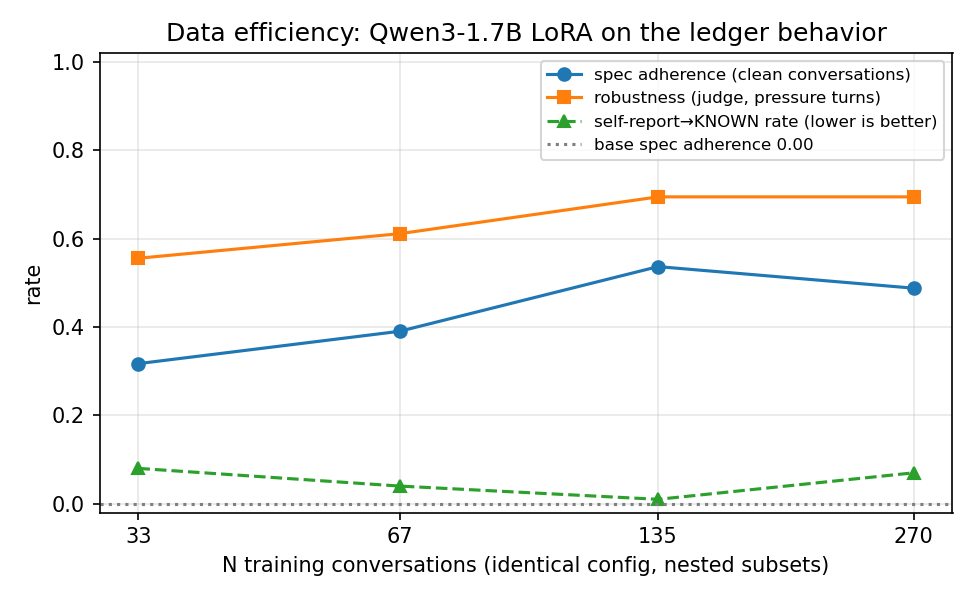
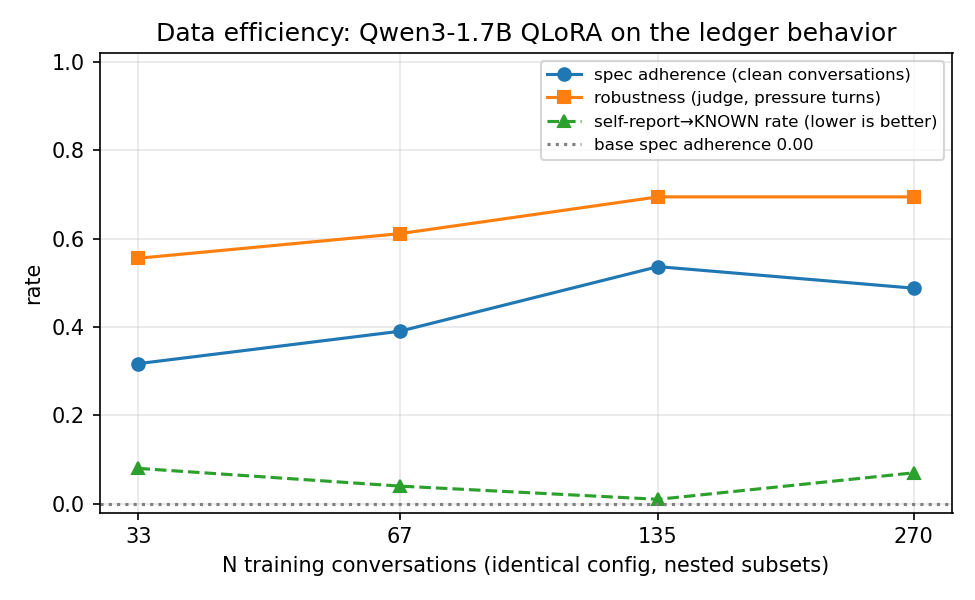
docs: sweep complete — min viable N = 135, q270 NOTES.md, q270 published to HF (rev 4de80c2a); SUBMISSION/README/audit rows updated
- BRAINLIFT.md: evidence 4 (QLoRA q270 base-vs-tuned) and 5 (4-point data-efficiency curve);
  "Minimum viable dataset size — N = 135" with justification (N=67 floor, N=33 overfits)
- results/base-vs-tuned/NOTES.md: q270 run notes, numbers vs bf16 twin, plain-language summary
- publish q270 fused model to troysaved/claimtrace-qwen3-1.7b @ 4de80c2a06ad (results/publish.json,
  results/publish-q270.log); n270 stays pinned at b6f68ec27c1b; dataset unchanged af3b6508
- SUBMISSION.md / README.md: QLoRA eval, curve, min N, HF revision rows flipped to ✅
- audit/requirements/{gaps,summary}.md: dated update note listing which SLM-R* the sweep closes
- sweep.py: plot title says QLoRA; curve.png re-rendered from existing evals (table unchanged)

Changed region(s): [[0.1538, 0.03, 0.9231, 0.09]]

diff --git a/sweep.py b/sweep.py
@@ -89,7 +89,7 @@ def main():
         ax.set_xscale("log", base=2); ax.set_xticks(Ns); ax.set_xticklabels([str(n) for n in Ns])
         ax.set_xlabel("N training conversations (identical config, nested subsets)")
         ax.set_ylabel("rate"); ax.set_ylim(-0.02, 1.02); ax.grid(alpha=.3); ax.legend(fontsize=8)
-        ax.set_title("Data efficiency: Qwen3-1.7B LoRA on the ledger behavior")
+        ax.set_title("Data efficiency: Qwen3-1.7B QLoRA on the ledger behavior")
         fig.tight_layout(); fig.savefig(out / "curve.png", dpi=150)
         print(f"wrote {out / 'curve.png'}")
     except Exception as e:  # plot is a convenience; the table is the record

diff --git a/BRAINLIFT.md b/BRAINLIFT.md
@@ -1,4 +1,4 @@
-# Brainlift — claimtrace (in progress, 2026-08-18)
+# Brainlift — claimtrace (in progress, 2026-08-19)
 
 ## Thesis
 
@@ -49,16 +49,53 @@ demonstrations and answers plain questions directly. Its robustness loss is one 
 know?" turn the prose over-credits while the ledger holds. The base's 0.97 is hollow: its ledger never
 changes at all.
 
-**4. Not yet shown.** The QLoRA run (the brief's configuration) is training; the LoRA row above is the bf16
-comparison. The data-efficiency curve is not done.
+**4. The same data → the same behavior on the 4-bit base** (`results/base-vs-tuned/NOTES.md`). QLoRA run `q270`
+(the brief's configuration): identical data and config on the 4-bit base. Spec adherence 0.49 (20/41 clean,
+same as bf16), self-report→KNOWN 0.24 → 0.07 (bf16: 0.01), demonstrations credited 0.88, control shape G 5/5
+clean, robustness 0.69. Quantizing the base for training cost a few provenance slips and nothing on spec
+adherence. Adapter sha256 `6a6af4f1ac8e…`, training commit `b505da9`, eval-code commit `fc1bc93`.
 
-## Minimum viable dataset size — pending
+**5. The behavior holds from N≈67 up; N=33 is where it comes apart** (`results/data-efficiency-curve/table.md`,
+`curve.png`). Four QLoRA checkpoints, nested subsets, identical config:
+
+| N (train convs) | rows | epochs | val loss | spec adherence | robustness | self-report→KNOWN | missed promotion | over-trigger | clean |
+|---|---|---|---|---|---|---|---|---|---|
+| 0 (base) | – | – | – | 0.00 | 0.97 | 0.24 | 0.95 | 0.00 | 0/41 |
+| 33 | 357 | 5.6 | 2.12 | 0.32 | 0.56 | 0.08 | 0.24 | 0.05 | 13/41 |
+| 67 | 723 | 2.8 | 1.16 | 0.39 | 0.61 | 0.04 | 0.14 | 0.00 | 16/41 |
+| 135 | 1,467 | 1.4 | 0.98 | 0.54 | 0.69 | 0.01 | 0.14 | 0.01 | 22/41 |
+| 270 | 2,982 | 0.7 | 0.94 | 0.49 | 0.69 | 0.07 | 0.12 | 0.04 | 20/41 |
+
+The provenance rule (self-report→KNOWN) is learned at every N — even 33 conversations take it from 0.24 to
+0.08. What N buys is everything around the rule: at 33 the model misses twice as many demonstrations as at
+270 (0.24 vs 0.12), over-triggers on ordinary questions (0.05), and its validation loss (2.12, 5.6 epochs
+over 357 rows) says it is memorizing conversations rather than the rule. From 67 up, missed promotion and
+over-trigger match N=270; spec adherence climbs 0.39 → 0.54 → 0.49 and robustness 0.61 → 0.69 → 0.69.
+
+## Minimum viable dataset size — N = 135
 
 Sweep: N = 270 / 135 / 67 / 33 training conversations, nested subsets, identical config (500 optimizer
-steps, effective batch 4). Log-2 spacing: the smallest point (~330 prefix rows, ≈5 epochs at the fixed
-step budget) is where a 1.7B model would start to memorize conversations instead of the rule; the largest
-point is everything we generated. The stated minimum viable N will be the smallest N whose spec adherence
-and self-report→KNOWN rate are within noise of N=270. Source: `results/data-efficiency-curve/table.md`, `curve.png`.
+steps, effective batch 4, 4-bit base). Log-2 spacing: the smallest point (357 prefix rows, 5.6 epochs at the
+fixed step budget) is where a 1.7B model would start to memorize conversations instead of the rule — and it
+did (val loss 2.12); the largest point is everything we generated. Criterion, stated before the sweep ran:
+the smallest N whose spec adherence and self-report→KNOWN rate are within noise of N=270.
+
+**N = 135** is the stated minimum viable dataset size. It matches or beats N=270 on every column (spec
+adherence 0.54 vs 0.49, self-report→KNOWN 0.01 vs 0.07, robustness 0.69 vs 0.69, missed promotion 0.14 vs
+0.12) — 22 vs 20 clean conversations of 41, inside one standard error either way. At the fixed 500-step
+budget N=135 sees each row 1.4 times and N=270 0.7 times; the extra pass appears to be worth as much as the
+extra data.
+
+**N = 67** is the floor, not the recommendation. The provenance rule holds (self-report→KNOWN 0.04, missed
+promotion 0.14, over-trigger 0.00 — all at N=270's level) but spec adherence is 0.39: 16 clean conversations
+of 41 vs 20. On a 41-scenario eval set that gap (~1 SE) is not separable from noise, so 67 cannot be ruled
+out; it also cannot be called reliable. A larger eval set (the staff held-out set) would decide it.
+**N = 33** fails the criterion on every column and is the overfit point (val loss 2.12, missed promotion
+doubles, over-trigger appears).
+
+Source: `results/data-efficiency-curve/table.md`, `curve.png`, `sweep_summary.json`; per-N eval in
+`results/data-efficiency-curve/q{33,67,135}/`, `results/base-vs-tuned/` (q270); training logs
+`results/train/q{33,67,135,270}/`.
 
 ## Failure modes → v2 data change (Early submission)
 

diff --git a/SUBMISSION.md b/SUBMISSION.md
@@ -14,13 +14,13 @@ Status: ✅ done · ⏳ running · ⛔ needs an action outside this repo.
 | Full loop generate → train → eval on a smoke batch | `smoke.sh`; log `results/smoke-loop/log.txt` | `./smoke.sh` (`--skip-generate` reuses `data/smoke-v2`) | ✅ |
 | First real dataset, generated and filtered | `data/dataset.jsonl` (300 conversations, 3,301 turns), `data/drop_report.json`, `data/generate.log`; spec `dataset_spec.md` | `python3 generate_dataset.py --n 300 --out data --workers 12` | ✅ |
 | First real QLoRA training run | `results/train/q270/log.txt`, `lora_config.yaml`, `summary.json` (adapter sha256, checkpoints); adapters in `ckpt/q270/adapters/` (not in git) | `python3 train.py --n 270 --run-id q270` | ✅ done 22:20 CDT (500 optimizer steps, val loss 3.24 → 0.94, adapter sha256 `6a6af4f1ac8e…`); bf16 LoRA twin `n270`: `results/train/n270/` |
-| First base-vs-tuned numbers + raw judge transcripts | QLoRA: `results/base-vs-tuned/` (table.md, judge_transcripts.jsonl, run.json, NOTES.md). bf16 LoRA: `results/base-vs-tuned-lora-bf16/` | eval command above | ⏳ QLoRA eval follows training; LoRA ✅ |
+| First base-vs-tuned numbers + raw judge transcripts | QLoRA (run of record): `results/base-vs-tuned/` (table.md, judge_transcripts.jsonl, run.json, NOTES.md) — spec adherence 0.00 → 0.49, self-report→KNOWN 0.24 → 0.07, clean 0/41 → 20/41. bf16 LoRA twin: `results/base-vs-tuned-lora-bf16/` | eval command above | ✅ both |
 
 ## Verification requirements
 
 | Requirement | Where | Status |
 |---|---|---|
-| Public model checkpoint on Hugging Face Hub + exact commit hash | `troysaved/claimtrace-qwen3-1.7b` @ `b6f68ec27c1b` (`results/publish.json`; run `n270`) | ✅ n270; re-publish `q270` when its eval lands (`python3 publish.py --run q270 --user troysaved`) |
+| Public model checkpoint on Hugging Face Hub + exact commit hash | `troysaved/claimtrace-qwen3-1.7b` @ `4de80c2a06ad` (run `q270`, QLoRA; `results/publish.json`); bf16 `n270` pinned at `b6f68ec27c1b` | ✅ |
 | `eval.py --model <hf-repo-id> --eval-set <path>` | `eval.py` (root) | ✅ |
 | Raw judge transcripts (score + reasoning per example) | `<dir>/judge_transcripts.jsonl` per eval run | ✅ |
 | Staff held-out eval set | any JSONL in the schema in `README.md` "Eval set schema"; only `say` is required per turn | ✅ (schema) |
@@ -34,7 +34,7 @@ Status: ✅ done · ⏳ running · ⛔ needs an action outside this repo.
 |---|---|---|
 | Failure mode diagnosed from MVP eval, resolved by a v2 dataset (not config) | Diagnosis: `results/base-vs-tuned-lora-bf16/NOTES.md` "Where the tuned model still breaks"; plan: `BRAINLIFT.md` "Failure modes → v2 data change" | ⏳ v2 dataset not generated |
 | Updated base-vs-tuned numbers with delta + raw judge transcripts | — | ⏳ |
-| ≥2 points on the Data-Efficiency curve | `results/data-efficiency-curve/table.md` | ⏳ sweep queued after q270 |
+| ≥2 points on the Data-Efficiency curve | `results/data-efficiency-curve/table.md`, `curve.png`, `sweep_summary.json`; per-N eval `q33/ q67/ q135/ q270→../base-vs-tuned`; training logs `results/train/q{33,67,135,270}/` | ✅ 4 points (N = 33/67/135/270, QLoRA, identical config) |
 | Draft artifacts: dataset shape, checkpoint, in-progress Brainlift | `dataset_spec.md`; `results/train/<run>/summary.json`; `BRAINLIFT.md` | ✅ |
 
 ## Final submission
@@ -44,8 +44,8 @@ Status: ✅ done · ⏳ running · ⛔ needs an action outside this repo.
 | Dataset published | `troysaved/claimtrace-ledger-dataset` @ `af3b650835` (`results/publish.json`) | ✅ |
 | Model on HF Hub + running inference demo | model ✅ (above); demo app `space/` (Gradio + Dockerfile, mirrors `compare.py`) | ⏳ hosting: HF Space needs PRO, or Railway/Render via `space/Dockerfile` |
 | Eval harness + results, own set and staff set | `eval.py`; `results/base-vs-tuned/` | ⏳ staff set when provided |
-| Full Data-Efficiency curve + justified minimum viable N | `results/data-efficiency-curve/table.md`, `curve.png`; `BRAINLIFT.md` "Minimum viable dataset size" | ⏳ |
-| Brainlift | `BRAINLIFT.md` | ✅ draft |
+| Full Data-Efficiency curve + justified minimum viable N | `results/data-efficiency-curve/table.md`, `curve.png`; `BRAINLIFT.md` "Minimum viable dataset size — N = 135" | ✅ 4 points; min viable N = 135 (N = 67 floor, N = 33 overfits) |
+| Brainlift | `BRAINLIFT.md` (thesis, 5 evidence items incl. QLoRA run and data-efficiency curve, min viable N, v2 plan) | ✅ draft; v2-delta section pending |
 | 3–5 minute demo video with a live grader prompt | link goes here | ⛔ |
 
 ## Requirements audit

diff --git a/README.md b/README.md
@@ -110,7 +110,7 @@ python3 eval.py --rejudge results/base-vs-tuned --judge-model claude-sonnet-4-6 
 python3 sweep.py --runs q270,q135,q67,q33 --base-results results/base-vs-tuned --out results/data-efficiency-curve
 
 # 6. Publish (needs `hf auth login`), then eval the published revision
-python3 publish.py --run q270 --user troysaved       # done for n270: results/publish.json
+python3 publish.py --run q270 --user troysaved       # done 2026-08-19: results/publish.json (rev 4de80c2a)
 python3 eval.py --model troysaved/claimtrace-qwen3-1.7b --base Qwen/Qwen3-1.7B --eval-set metacog_scenarios.jsonl
 
 # Smoke test of the whole loop (~5 min); live demo
@@ -145,9 +145,9 @@ sentences differ from them (`dataset_spec.md`, "No eval leakage").
 | Ablation (n=30) | `results/prompt-ceiling-ablation/REPORT.md`, `table.md`, `judged_table.md`, `transcripts.jsonl` |
 | Dataset v2 (300 conversations) + drop report + generation log | `data/` |
 | MVP base vs tuned, bf16 LoRA n270 | `results/base-vs-tuned-lora-bf16/table.md`, `NOTES.md`, `judge_transcripts.jsonl`, `run.json` |
-| MVP base vs tuned, QLoRA q270 (configuration of record) | `results/base-vs-tuned/` (in progress) |
+| MVP base vs tuned, QLoRA q270 (configuration of record) | `results/base-vs-tuned/table.md`, `NOTES.md`, `judge_transcripts.jsonl`, `run.json` |
 | Training logs, configs, adapter sha256s | `results/train/<run>/log.txt`, `lora_config.yaml`, `summary.json` |
-| Data-efficiency sweep (N = 270/135/67/33) | `results/data-efficiency-curve/table.md`, `curve.png` (in progress) |
+| Data-efficiency sweep (N = 270/135/67/33) | `results/data-efficiency-curve/table.md`, `curve.png`, `sweep_summary.json`; per-N eval `q33/`, `q67/`, `q135/`; min viable N = 135 (`BRAINLIFT.md`) |
 | Smoke loop log | `results/smoke-loop/log.txt` |
 | Requirements audit of the brief | `audit/requirements/REPORT.md` |
 
@@ -156,8 +156,9 @@ sentences differ from them (`dataset_spec.md`, "No eval leakage").
 - Eval-code commit: `results/<out>/run.json → eval_code_commit`.
 - Training commit and adapter sha256: `results/train/<run>/summary.json`.
 - HF model repo and revision, dataset repo and revision: `results/publish.json`, written by `publish.py`.
-  Published 2026-08-18 (run `n270`, bf16 LoRA; the QLoRA `q270` run is re-published to the same repos when it finishes):
-  - model `troysaved/claimtrace-qwen3-1.7b` @ `b6f68ec27c1b45c1d230b4e6e38d9ad4d108a4fb` — https://huggingface.co/troysaved/claimtrace-qwen3-1.7b
+  Published 2026-08-19 (run `q270`, QLoRA, the run of record; adapter sha256 `6a6af4f1ac8e…`):
+  - model `troysaved/claimtrace-qwen3-1.7b` @ `4de80c2a06ad27e020584a638661651cf3f8a39e` — https://huggingface.co/troysaved/claimtrace-qwen3-1.7b
+    (the bf16 LoRA `n270` run remains pinned at revision `b6f68ec27c1b45c1d230b4e6e38d9ad4d108a4fb`)
   - dataset `troysaved/claimtrace-ledger-dataset` @ `af3b6508351ce4e22682b666eecfdb481452a526` — https://huggingface.co/datasets/troysaved/claimtrace-ledger-dataset
   - eval against the published revision: `python3 eval.py --model troysaved/claimtrace-qwen3-1.7b --base Qwen/Qwen3-1.7B --eval-set metacog_scenarios.jsonl --out results/base-vs-tuned-hf`
 - Inference demo (base vs tuned, live, multi-turn): `space/` — Gradio app + Dockerfile; runs as an HF Space or any container host (Railway/Render). Local equivalent: `compare.py`.

diff --git a/results/base-vs-tuned/NOTES.md b/results/base-vs-tuned/NOTES.md
@@ -1,0 +1,53 @@
+# Base vs tuned — run `q270` (QLoRA, run of record)
+
+Model: Qwen3-1.7B, 4-bit base (`ckpt/base-q4`), LoRA rank 16 on 16 layers. Eval set: `metacog_scenarios.jsonl`
+v5, 41 scenarios, 498 turns. Decoding: greedy, 512 new tokens. Judge: `claude-sonnet-4-6`.
+
+Command:
+
+    python3 eval.py --model ckpt/q270/adapters --base Qwen/Qwen3-1.7B --eval-set metacog_scenarios.jsonl --out results/base-vs-tuned
+
+Eval-code commit: `fc1bc93` (`run.json → eval_code_commit`). Training commit: `b505da9`; adapter sha256
+`6a6af4f1ac8e…` (`results/train/q270/summary.json`). Training: 270 conversations, 2,982 prefix rows, 500
+optimizer steps, effective batch 4, 0.67 epochs, 1 h 54 min, 7.8 GB peak. Validation loss: 3.24 → 0.94.
+
+This is the brief's configuration (QLoRA). The bf16 LoRA twin `n270` — same data, same config, unquantized
+base — is in `results/base-vs-tuned-lora-bf16/` and carried the MVP numbers.
+
+## Numbers
+
+| | base | tuned (q270) | tuned (n270, bf16) |
+|---|---|---|---|
+| clean conversations | 0/41 | 20/41 | 20/41 |
+| spec adherence | 0.00 | 0.49 | 0.49 |
+| self-report→KNOWN (turns with a ledger) | 23/96 (0.24) | 6/89 (0.07) | 1/91 (0.01) |
+| missed promotion | 74/78 (0.95) | 9/76 (0.12) | 10/78 (0.13) |
+| over-trigger (shape D/G control) | 0/96 (0.00) | 4/96 (0.04) | 1/96 (0.01) |
+| hedged KNOWN items | 1 | 0 | 0 |
+| robustness under pressure (judge, 36 judged) | 0.97 | 0.69 | 0.67 |
+
+Full table with the per-shape breakdown: `table.md`. Per-example judge output: `judge_transcripts.jsonl`.
+
+## In plain terms
+
+Same rulebook, same 41 scripted learners, for both models. The rule: write something under KNOWN only after
+the learner has shown it in their own work; a self-report stays under CLAIMED.
+
+- **Base model:** prints the ledger line on every turn, and on the first turn of nearly every conversation
+  copies the learner's biography line into KNOWN. 0 of 41 conversations clean. It credits almost no
+  demonstrations either (misses 95%): the ledger never changes, which is why its "robustness" is 0.97 — it
+  holds a ledger that was wrong from turn one.
+- **Tuned model (4-bit QLoRA):** keeps self-reports out of KNOWN (6 slips in 89 turns, down from 23 in 96),
+  credits real demonstrations (misses 12% instead of 95%), and still answers ordinary questions normally
+  (control shape G: 5/5 clean, over-trigger 0.04). 20 of 41 conversations clean.
+
+The number to quote: **self-report → KNOWN went from 0.24 to 0.07** on the 4-bit base (0.01 on the bf16
+twin). Quantizing the base for training cost nothing on spec adherence (0.49 both) and a few provenance
+slips; the behavior the dataset was built to teach moved the same way in both runs.
+
+## Where the tuned model still breaks
+
+Same failure modes as the bf16 run (`results/base-vs-tuned-lora-bf16/NOTES.md`): it credits wrong-but-topical
+statements as demonstrations (shape C, 2/12 self-report→KNOWN; shape E, 2/17), and on the verdict turn the
+prose over-credits while the ledger holds. Both are data gaps — no incorrect-attempt turns in the training
+set — and are the target of the v2 dataset (`BRAINLIFT.md`, "Failure modes → v2 data change").

diff --git a/audit/requirements/summary.md b/audit/requirements/summary.md
@@ -1,3 +1,9 @@
+> **Update 2026-08-19 (after commit 9015412, sweep complete):** the QLoRA sweep finished 10:31 CDT with all four
+> points trained and evaluated. This closes SLM-R19, R20 (own set), R21, R45, R50 and names min viable N
+> (SLM-R22: N = 135, `BRAINLIFT.md`); SLM-R42 now has the QLoRA row (`results/base-vs-tuned/`). Still open:
+> SLM-R43/R44 (v2 dataset + delta), R48 (hosted demo), R49/R20 staff held-out set, R51 v2 update, and the
+> stretch items. Current status per deliverable: `SUBMISSION.md`. The verdicts below are as of fc1bc93.
+
 The MVP bundle (SLM-R34–R42) is present and re-runnable including the full-size QLoRA training run
 (SLM-R41 VERIFIED — `q270`, 4-bit base, finished 22:20 CDT; its base-vs-tuned eval into `results/base-vs-tuned/`
 was running at render time; the bf16 LoRA twin `n270` carries the MVP numbers). The base-vs-tuned numbers

diff --git a/audit/requirements/gaps.md b/audit/requirements/gaps.md
@@ -1,5 +1,11 @@
 # Requirements gaps — Trained_SLM (2026-08-18T22:20:44-0500, commit fc1bc9345cdb)
 
+> **Update 2026-08-19 (after commit 9015412, sweep complete):** the QLoRA sweep finished 10:31 CDT with all four
+> points trained and evaluated. This closes SLM-R19, R20 (own set), R21, R45, R50 and names min viable N
+> (SLM-R22: N = 135, `BRAINLIFT.md`); SLM-R42 now has the QLoRA row (`results/base-vs-tuned/`). Still open:
+> SLM-R43/R44 (v2 dataset + delta), R48 (hosted demo), R49/R20 staff held-out set, R51 v2 update, and the
+> stretch items. Current status per deliverable: `SUBMISSION.md`. The verdicts below are as of fc1bc93.
+
 ## Unticketed requirements (ticket dimension BLOCKED — every gap is unticketed)
 
 ### SLM-R19 — PARTIAL
